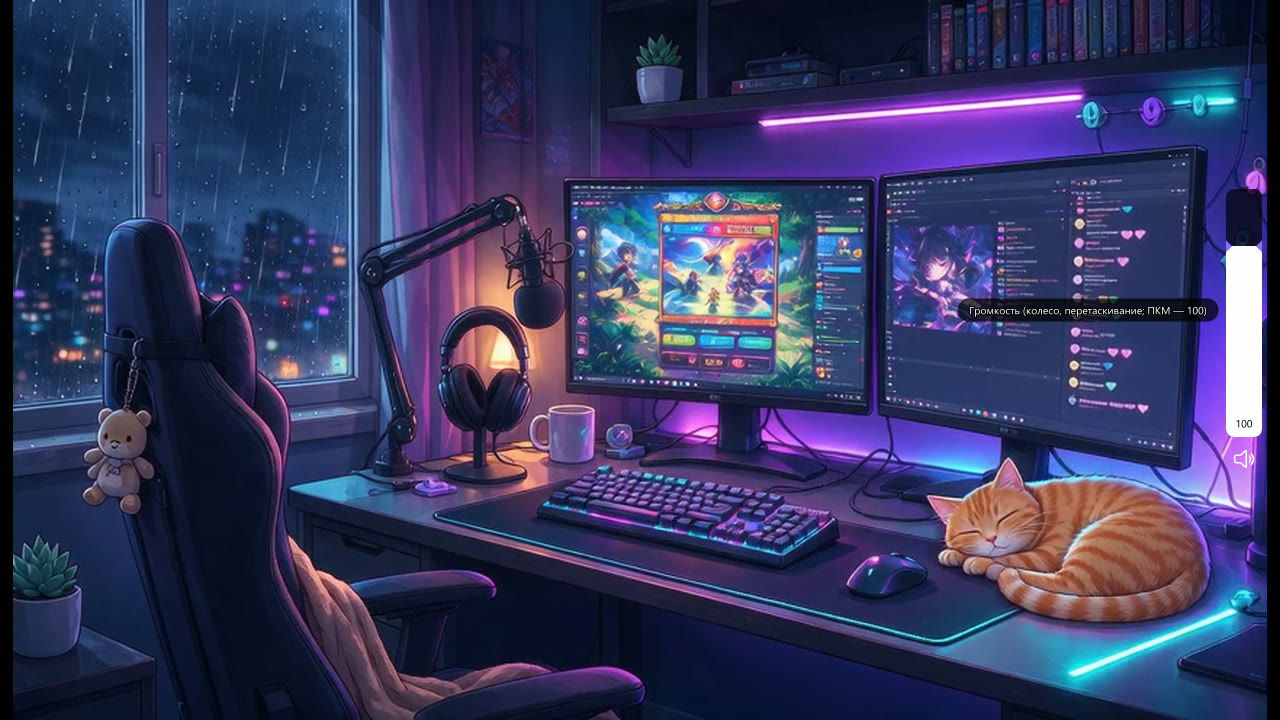
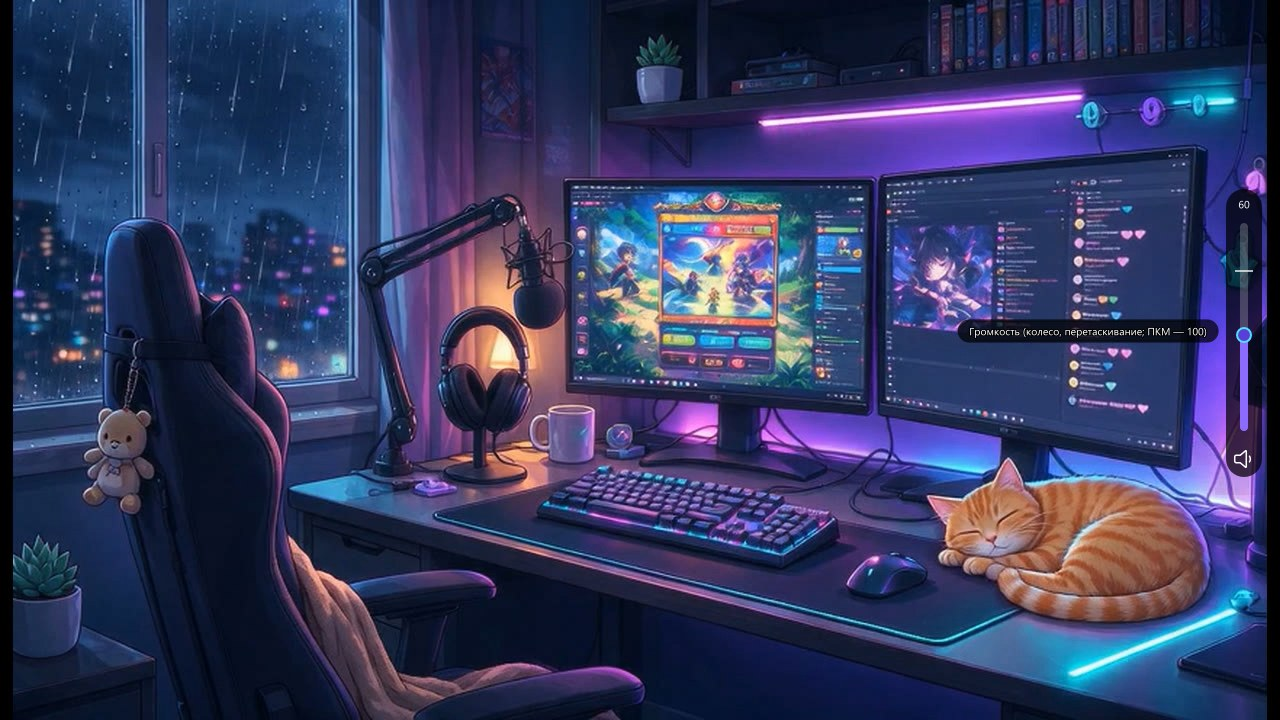
README: color picker, hover color, movable window buttons and volume
New "Выбор цвета" block with a screenshot of the color wheel, a fresh
screenshot of the new volume widget, and the editor section updated:
"Создать здесь" by right click, "Цвет при наведении", "Цвет кружка",
window buttons and the volume widget as items, the "⇅" toolbar button,
zones that fade. Settings: volumebar_match_seek_color, jump_mode=exact.

Changed region(s): [[0.75, 0.3056, 1.0, 0.6722], [0.9688, 0.2444, 1.0, 0.275]]

diff --git a/README.md b/README.md
@@ -43,8 +43,9 @@
 
 ### Редактор оболочки — `Ctrl+E`
 Тащи элементы куда угодно, тяни за уголок — меняй размер. Правый клик — **свойства**:
-что делают клики и колесо, цвет, размер, прозрачность, подсказка. Кнопка
-**«Создать объект»** — готовые кнопки, свои кнопки с иконками, надписи.
+что делают клики и колесо, цвет, цвет при наведении, размер, прозрачность, подсказка.
+Правый клик по пустому месту — **«Создать здесь»**: готовые кнопки, свои кнопки с иконками,
+надписи, плашки. Двигаются даже кнопки окна и регулятор громкости.
 
 </td>
 <td width="50%"><img src="docs/editor-properties.jpg" alt="Свойства элемента"></td>
@@ -71,17 +72,29 @@
 <td><img src="docs/skins.jpg" alt="Скины"></td>
 </tr>
 <tr>
-<td><img src="docs/volume.jpg" alt="Громкость"></td>
+<td><img src="docs/color-picker.jpg" alt="Выбор цвета"></td>
+<td>
+
+### Выбор цвета
+Своё окошко для любого цвета в редакторе: **цветовой круг** с полоской яркости (можно тянуть
+мышкой) или **сетка** готовых оттенков, серые, **последние цвета** и ввод кода `#RRGGBB`.
+Цвет сразу виден на элементе, «Отмена» возвращает как было.
+
+</td>
+</tr>
+<tr>
 <td>
 
 ### И ещё
-- **громкость как в uosc** — ползунок у края экрана, колесо над видео;
+- **громкость как в uosc** — появляется у края экрана, колесо над видео; капсула с цифрой
+  и тонкой дорожкой в стиле полосы перемотки;
 - **качество стримов** Twitch/Kick (через streamlink, без рекламы) и роликов YouTube — `Alt+Q`;
 - «**Продолжено с 12:34 · С начала**», а досмотренное больше не открывается на последнем кадре;
 - **картинка в картинке**, **SponsorBlock**, вспышка паузы, индикатор загрузки;
 - фирменная тема **prism** и ещё шесть цветов.
 
 </td>
+<td width="50%"><img src="docs/volume.jpg" alt="Громкость"></td>
 </tr>
 </table>
 
@@ -105,7 +118,9 @@
 |---|---|
 | открыть меню | правый клик по видео |
 | передвинуть кнопку, поменять цвет | `Ctrl+E` → тащи мышкой, правый клик — свойства → «Сохранить» |
-| добавить свою кнопку | `Ctrl+E` → «Создать объект» |
+| добавить свою кнопку | `Ctrl+E` → правый клик по пустому месту → «Создать здесь» (или кнопка «Создать объект») |
+| передвинуть громкость или кнопки окна | `Ctrl+E` → тащи их, как любые другие элементы |
+| выбрать цвет | `Ctrl+E` → правый клик по элементу → «Цвет» → круг или сетка → «Готово» |
 | кнопка, которая появляется сама по себе | `Ctrl+E` → «Создать объект» → «Зона наведения», у кнопки «Появляется в зоне» |
 | другой дизайн панели | меню → «Скины»: «Стандарт», «Капсула», «Кино», «Неон Prism», «Островки», «Мини», «Мобильный», «VHS», «Боковая панель», «Терминал» |
 | другой вариант панели | меню → «Скины» → «Новый скин» (копия) или «Пустой скин» (с нуля) |
@@ -124,20 +139,31 @@
   `Ctrl+Z` — шаг назад, `Ctrl+S` — сохранить. «Выйти» с несохранёнными изменениями переспросит.
 - **Правый клик — свойства:** действия левой/правой кнопки и колеса (пауза, перемотка, следующее
   видео, скриншот, громкость, скорость, меню, качество… или своя команда mpv), размер, цвет,
-  прозрачность, что прятать первым в узком окне, подсказка, растянуть, по центру, удалить.
+  **цвет при наведении** («Авто» — свой цвет кнопки не перекрашивается, «Цвет темы», «Не менять»
+  или любой), прозрачность, что прятать первым в узком окне, подсказка, растянуть, по центру, удалить.
 - **«Оформление»:** цвет (тема), подложка — затемнение снизу, капсула (скруглённая плашка) или без неё,
-  толщина и свечение полосы перемотки. У кнопок в свойствах — «Фон кнопки» (круг) и его прозрачность,
-  у текста и надписей — «Шрифт». В любом цвете есть «Свой цвет…» — код вида `#33FF66`.
-- **«Создать объект»:** готовые кнопки (скриншот, громче/тише, скорость 1.5×, ±30 с, главы, поверх
+  толщина и свечение полосы перемотки, **цвет кружка** на полосе и его обводка (кружок громкости
+  берёт тот же цвет). У кнопок в свойствах — «Фон кнопки» (круг) и его прозрачность,
+  у текста и надписей — «Шрифт».
+- **Выбор цвета** — своё окошко: переключатель «Круг / Сетка», цветовой круг с полоской яркости
+  (клик или перетаскивание), серые, последние 12 цветов, «Ввести код…» (`#33FF66`). Выбранный цвет
+  сразу виден на элементе; «Готово» / `Enter` — оставить, «Отмена» / `Esc` — вернуть как было.
+- **«Создать объект»** или правый клик по пустому месту → **«Создать здесь»** (объект встанет
+  под курсор): готовые кнопки (скриншот, громче/тише, скорость 1.5×, ±30 с, главы, поверх
   окон, качество стрима, открыть файл…), своя кнопка с иконкой из списка, надпись, встроенные элементы,
   **плашка** (скруглённая подложка под группу кнопок), **зона наведения**.
+- **Кнопки окна** (свернуть / развернуть / закрыть) и **регулятор громкости** — тоже элементы:
+  их можно двигать и растягивать (у громкости ширина — толщина, высота — длина; её зона наведения
+  переезжает вместе с ней). Удалённую кнопку окна вернёт «Встроенный элемент».
+- **Панель редактора** прячется, пока тащишь элемент; кнопка «⇅» переносит её в середину экрана,
+  чтобы не мешала ставить кнопки наверху.
 - **«Как по умолчанию»** возвращает скин к его исходному виду (копии лежат в `skins/defaults/`),
   а скин, сделанный через «Новый скин», — к тому, с которого его скопировали.
 - **Зоны наведения** — цветные прямоугольники: где мышь вызывает нижнюю панель, верхнюю (кнопки окна)
   и громкость. Их можно двигать, растягивать и удалять (удалённая зона больше не срабатывает,
   вернуть — «Создать объект» → «Вернуть стандартную зону»). Свою зону создай в «Создать объект»,
   потом у кнопки в свойствах выбери «Появляется в зоне» — кнопка будет появляться сама по себе,
-  когда мышь в этой зоне, без остальной панели.
+  когда мышь в этой зоне, без остальной панели (плавно, и прячется, как только мышь ушла).
 - Положение считается от левого края, центра или правого края окна — это выбирается само,
   поэтому панель правильно растягивается при любом размере окна.
 
@@ -173,6 +199,8 @@
 - `layout=default` — классическая раскладка без редактора: кнопки включаются строками
   `menu_button`, `shuffle_button`…, ширина линейки — `speed_ruler_width`.
 - `click_pause=yes` — пауза по одиночному клику (в этом конфиге выключена).
+- `volumebar_match_seek_color=no` — белая заливка громкости вместо цвета темы.
+- `jump_mode=exact` — перемотка ±10 с ровно на 10 секунд (по умолчанию — к ближайшему ключевому кадру, быстрее).
 
 Внутри скрипт называется `hybrid` (папка `scripts/hybrid`, привязки `script-binding hybrid/...`) —
 так сложилось исторически, на работу это не влияет.
